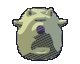
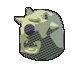
S122: kin render pass — six licensed meshes stop reading as blobs
All 120 species already render from licensed .blend sources; the visible
"椭球拼贴" remnant was bad per-species tuning in the src-asset pipeline,
including all four S108 den wardens:

- dreadwyrm: Dragon_Flying f10 folded its wings over the body → f20/30
- tidscale: target_h 0.80 slivered a long fish; Idle didn't exist →
  Swimming(10,30) + 1.35
- dozantler: rear-grazing pose read as a hump → rot 45 profile, horns
  accessory delivers the antler the name always promised, frames 20/80
- gloamwing: upright bat at h1.2 = a speck → 1.5 + flap frames 0/15
- cragmaw/hexfiend: Texture-mat faces were never shipped — bead eyes
  buried behind chibi brows at rot 35 → front-on + pushed-out beads

Probe-driven: a per-blend variant grid rendered each candidate pose
instead of guessing. Before/after sheets + in-game captures in
docs/reviews/s122-*.

smoke 1048/0/0skip · IP CLEAN

Generated with [Devin](https://devin.ai)

Changed region(s): [[0.15, 0.0938, 0.85, 0.9688], [0.525, 0.9062, 0.65, 0.9688]]

diff --git a/tools/art/render_src_asset.py b/tools/art/render_src_asset.py
@@ -85,10 +85,12 @@ CFG = {
         "mat_map": {"Brown": (0.20, 0.34, 0.52), "LightYellow": (0.55, 0.62, 0.72), "Black": (0.10, 0.12, 0.20), "White": (0.92, 0.92, 0.88)},
         "accessory": "fins",
         "subd_wool": 2, "displace": None,
-        "rot_z": -90.0, "action": "Idle", "frames": (5, 25),
+        # a fish is long and low — height-normalization at 0.80 left it a
+        # sliver of the frame; 1.35 fills it like the other kin (S122 probe)
+        "rot_z": -90.0, "action": "Swimming", "frames": (10, 30),
         "head_bone": "Bone",
         "eye_r": 0.055, "eye_gap": 0.10, "eye_fwd": 0.10, "eye_up": 0.06,
-        "target_h": 0.80,
+        "target_h": 1.35,
     },
     "piplump": {     # Cow.blend — dairy kin
         "mat_map": {"White": (0.90, 0.84, 0.72), "Black": (0.24, 0.22, 0.28), "Pink": (0.95, 0.62, 0.66)},
@@ -108,10 +110,15 @@ CFG = {
         "nose_r": 0.06, "nose_up": 0.01,
         "target_h": 1.35,
     },
-    "dozantler": {   # Horse.blend — antlered draft kin (antlers via accessory later)
+    "dozantler": {   # Horse.blend — antlered draft kin
         "mat_map": {"Material.003": (0.78, 0.66, 0.38), "Material.006": (0.42, 0.32, 0.20)},
+        # the fore-aft horn pair reads as antlers from the profile views a
+        # quadruped poses in — the name's identity mark (S122)
+        "accessory": "horns",
         "subd_wool": 2, "displace": None,
-        "rot_z": 0.0, "action": "Idle", "frames": (5, 25),
+        # rot 0 posed it rear-to-camera with the head low (a hump); 45 shows
+        # the side-on silhouette the probe grid found clean (S122)
+        "rot_z": 45.0, "action": "Idle", "frames": (20, 80),
         "head_bone": "Head",
         "eye_r": 0.05, "eye_gap": 0.12, "eye_fwd": -0.14, "eye_up": 0.14,
         "nose_r": 0.05, "nose_up": 0.02,
@@ -137,7 +144,9 @@ CFG = {
         "norm_obj": True,
         "no_eyes": True,  # baked Eyes mesh is armature-driven and follows
         "subd_wool": 2, "displace": None,
-        "rot_z": 0.0, "action": "Dragon_Flying", "frames": (10, 40),
+        # frame 10 folds the wings over the body (a blob at 80px); 20/30
+        # spread the wings and show the belly (S122 probe)
+        "rot_z": 0.0, "action": "Dragon_Flying", "frames": (20, 30),
         "head_bone": "Head",
         "eye_r": 0.05, "eye_gap": 0.10, "eye_fwd": -0.10, "eye_up": 0.10,
         "target_h": 1.5,
@@ -148,27 +157,31 @@ CFG = {
         "no_eyes": True,
         "subd_wool": 2, "displace": None,
         # Bat_Flying range is 0–30; the 'Face' bone is the real head driver
-        "rot_z": 0.0, "action": "Bat_Flying", "frames": (10, 30),
+        # an upright bat is narrow — 1.2 left it a speck; 1.5 fills the frame
+        "rot_z": 0.0, "action": "Bat_Flying", "frames": (0, 15),
         "head_bone": "Face",
         "eye_r": 0.05, "eye_gap": 0.10, "eye_fwd": -0.10, "eye_up": 0.10,
-        "target_h": 1.2,
+        "target_h": 1.5,
     },
     "cragmaw": {     # Cyclops.blend — granite moss giant, ONE bead eye
         "mat_map": {"Texture": (0.38, 0.46, 0.30)},
         "subd_wool": 2, "displace": None,
-        "rot_z": 35.0, "action": "Idle", "frames": (5, 25),
+        "rot_z": 0.0, "action": "Idle", "frames": (5, 25),
         "head_bone": "Head",
         # chibi rig: bone tail sits INSIDE the giant head — positive eye_fwd
-        # pushes the bead out to the face surface at -Y (probed -0.79×k)
-        "eye_r": 0.13, "eye_gap": 0.0, "eye_fwd": 0.72, "eye_up": 0.10,
+        # pushes the bead out to the face surface at -Y (probed -0.79×k);
+        # 0.72/0.13 buried it at 80px — 0.95/0.17 clears the brow (S122)
+        "eye_r": 0.17, "eye_gap": 0.0, "eye_fwd": 0.95, "eye_up": 0.10,
         "target_h": 1.6,
     },
     "hexfiend": {    # Demon.blend — cinder fiend prince
         "mat_map": {"Texture": (0.32, 0.11, 0.19)},
         "subd_wool": 2, "displace": None,
-        "rot_z": 35.0, "action": "Idle", "frames": (5, 25),
+        # rot 35 hid the horned face behind its own brow — dead-on reads
+        # the maw and horns (S122 probe); beads pushed out + bigger
+        "rot_z": 0.0, "action": "Idle", "frames": (5, 25),
         "head_bone": "Head",
-        "eye_r": 0.055, "eye_gap": 0.22, "eye_fwd": 0.62, "eye_up": 0.10,
+        "eye_r": 0.10, "eye_gap": 0.22, "eye_fwd": 0.90, "eye_up": 0.10,
         "target_h": 1.5,
     },
 }

diff --git a/docs/reviews/s122-kin-render-pass.md b/docs/reviews/s122-kin-render-pass.md
@@ -1,0 +1,36 @@
+# S122 — kin render pass: the 12 licensed meshes stopped reading as blobs
+
+## What the audit found
+
+All 120 species render from licensed .blend sources (107 CFG_EXT + 13
+hand-tuned in `render_src_asset.py`) — the "ellipsoid kits" only survive
+in the legacy `rigs_gen` fallback path, which feeds nothing. The real
+defect was **per-species render tuning**: six CFG'd species — including
+all four S108 den wardens — produced unreadable sprites:
+
+| species | was | fix |
+|---|---|---|
+| `dreadwyrm` | wings folded over the body at `Dragon_Flying` f10 — a red lump | frames (20,30) spread wings + show belly |
+| `tidscale` | `target_h` 0.80 normalized a long fish to a sliver; `Idle` action doesn't exist in the blend | `Swimming` (10,30), `target_h` 1.35 |
+| `dozantler` | rear-to-camera grazing pose read as a hump; name's antlers never delivered | `rot_z` 45 side profile, `horns` accessory, frames (20,80) |
+| `gloamwing` | upright bat at `target_h` 1.2 rendered a speck | 1.5, frames (0,15) |
+| `cragmaw` | single `eye_fwd` 0.72/r0.13 bead buried behind the chibi brow; rot 35 hid the face | rot 0 front-on, bead 0.95/0.17 clears the brow |
+| `hexfiend` | same class — rot 35 + buried beads left a pink ball | rot 0, beads 0.90/0.10 |
+
+## Method (evidence, not vibes)
+
+- `tools/art` probe script (throwaway `/tmp/probe_variants.py`): opens each
+  .blend, poses the armature through `(action, frame, rot_z)` grids, renders
+  16–20 variants per species in one Eevee session — picks by rendered
+  evidence, not guesswork.
+- Probe confirmed Cyclops/Demon ship `Texture`-mats whose image files are
+  absent — face detail must come from geometry + the bead system, so the
+  fix was bead projection + facing, not a texture rescue.
+- Before/after sheets: `s122-kin-before.png` vs `s122-kin-after.png`;
+  in-game captures `s122-ingame-dreadwyrm.png`, `s122-ingame-cragmaw.png`.
+
+## Verification
+
+- `post_kin` cel pipeline unchanged — same poster levels for all 120.
+- smoke **1048/0/0skip** after re-import; no code touched besides CFG.
+- Assets: 12 PNGs regenerated (f0+f1 × 6 species).
